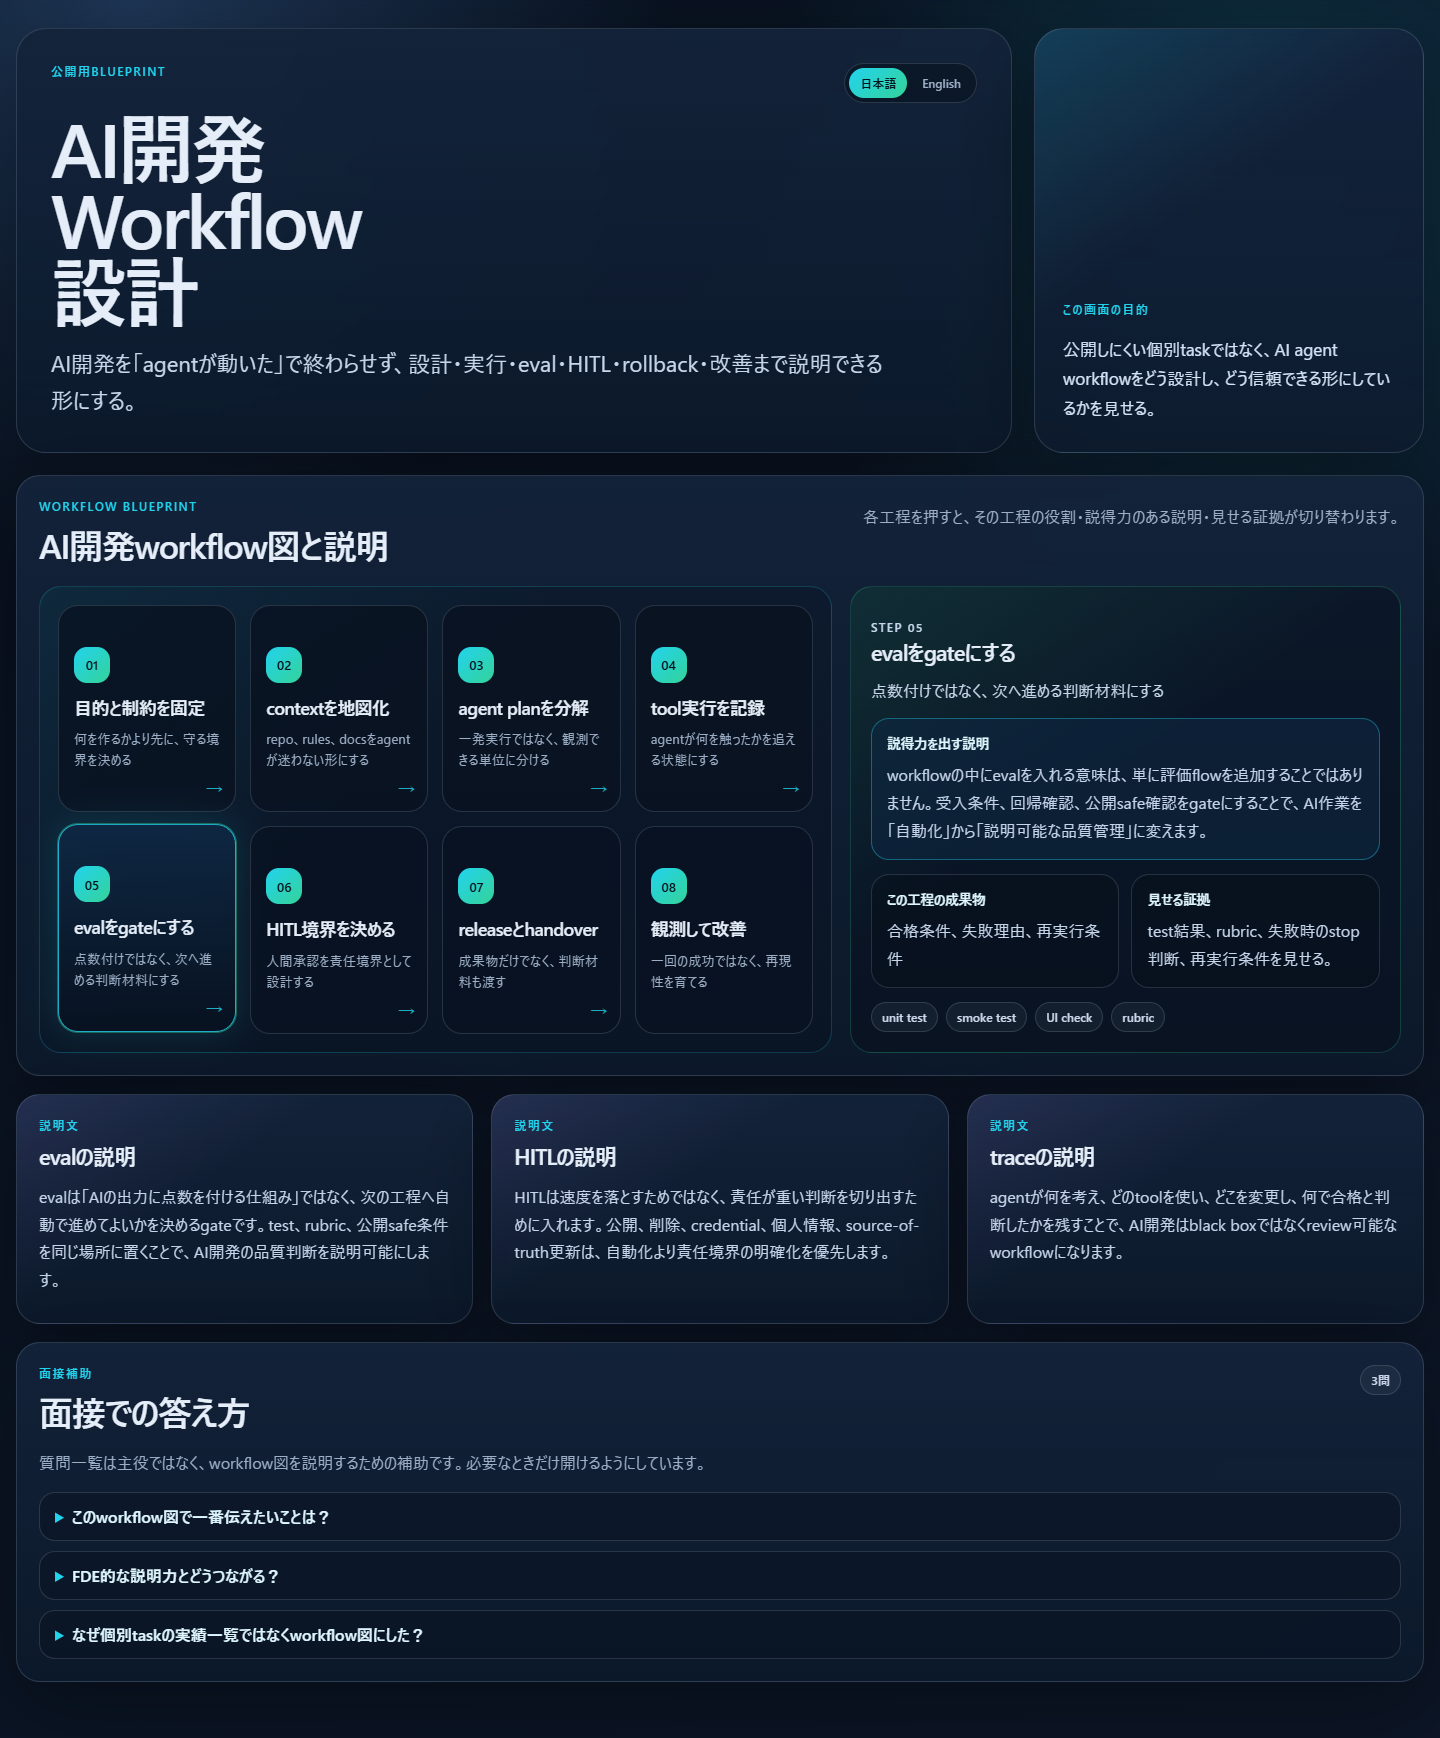
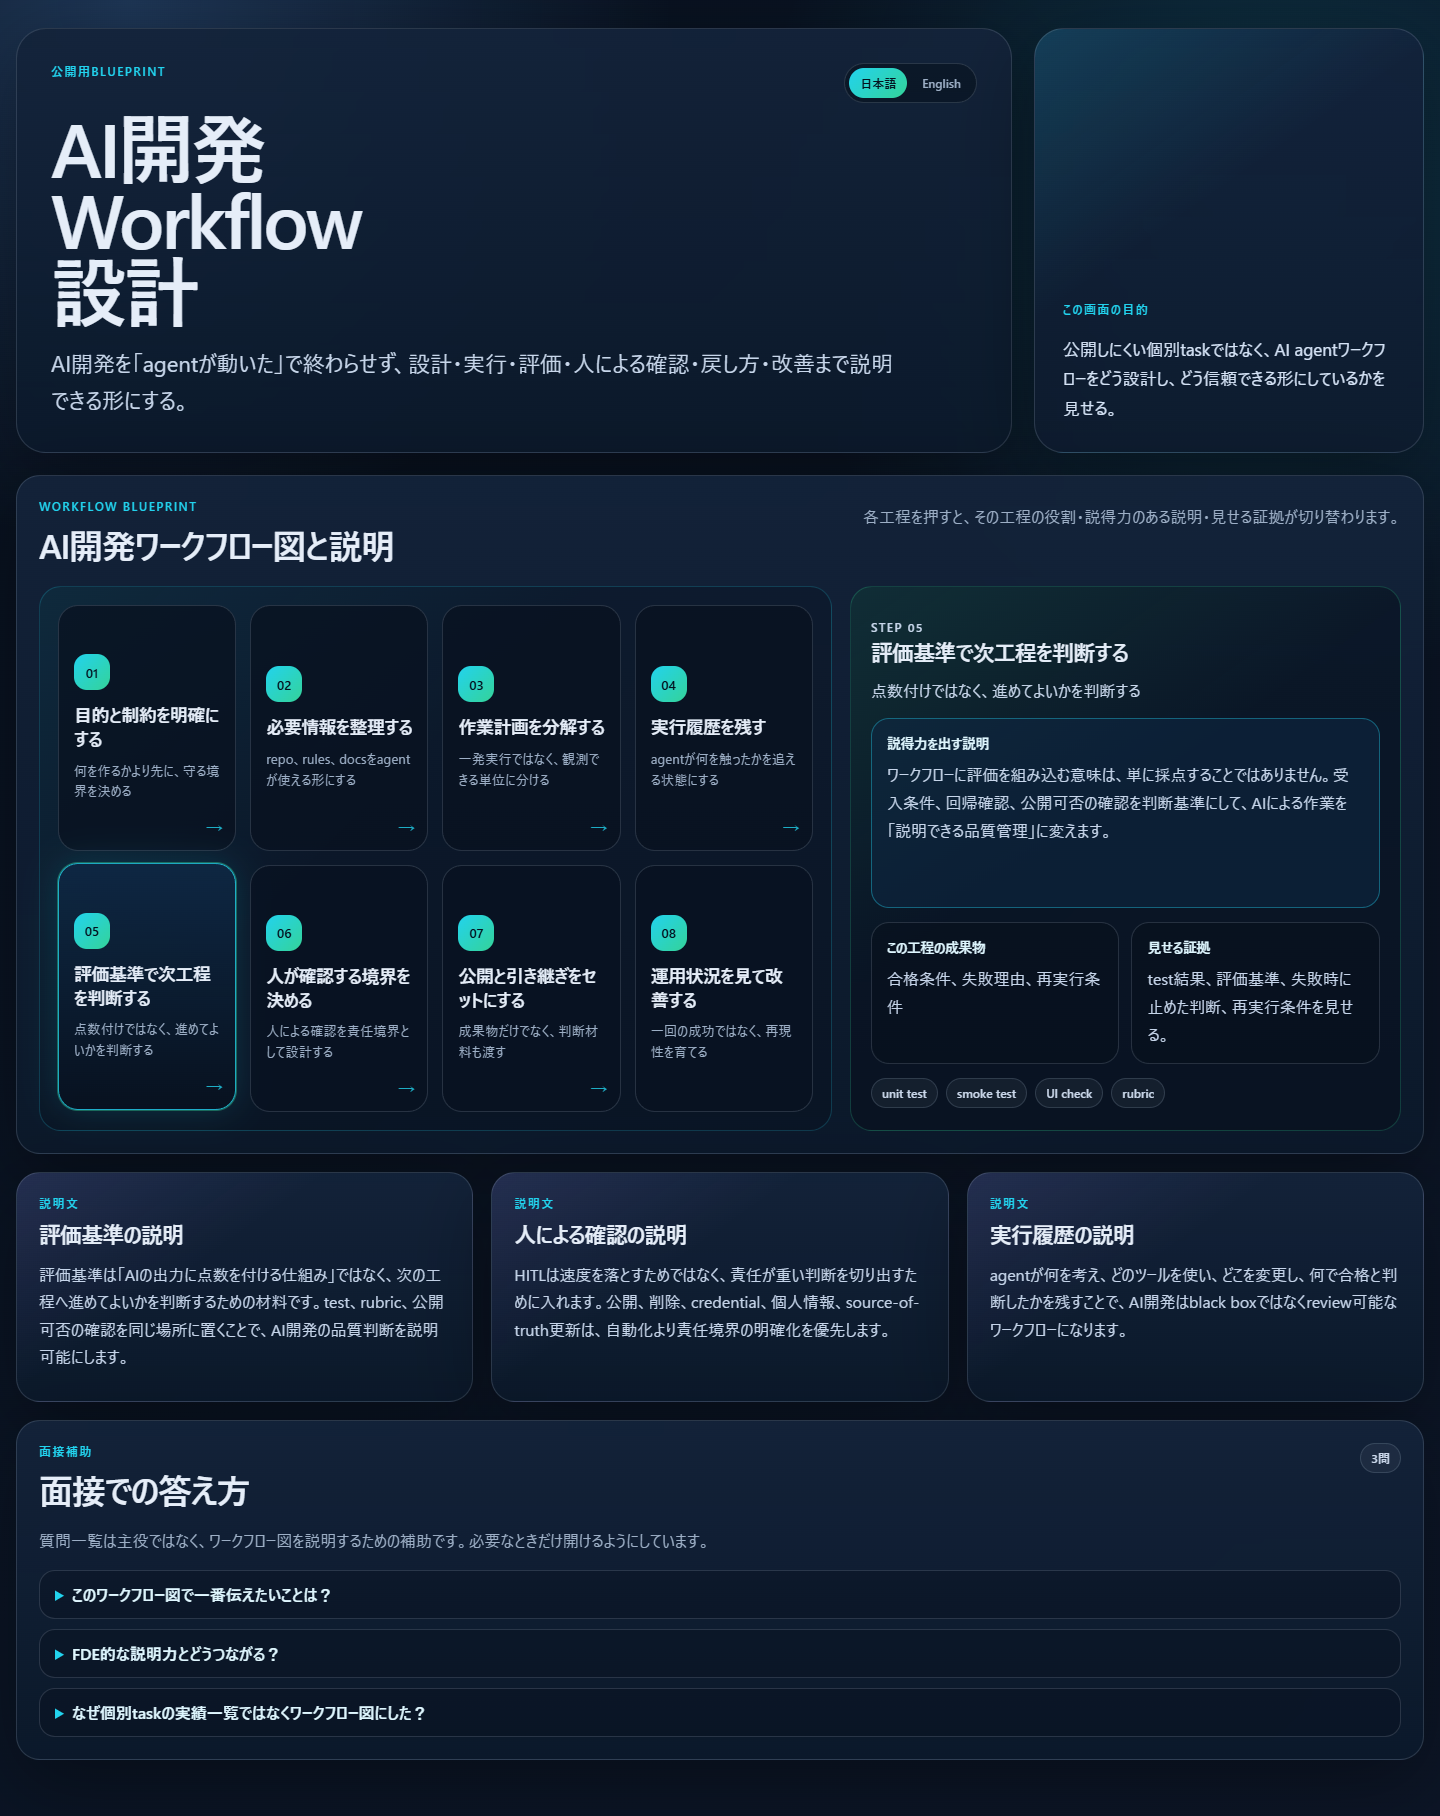
Stabilize workflow panel and improve Japanese copy

diff --git a/app.js b/app.js
@@ -23,19 +23,19 @@ const I18N = {
     hero: {
       eyebrow: "公開用Blueprint",
       titleHtml: "<span>AI開発</span><span>Workflow</span><span>設計</span>",
-      lead: "AI開発を「agentが動いた」で終わらせず、設計・実行・eval・HITL・rollback・改善まで説明できる形にする。",
+      lead: "AI開発を「agentが動いた」で終わらせず、設計・実行・評価・人による確認・戻し方・改善まで説明できる形にする。",
       languageAria: "言語選択",
       panelAria: "Dashboardの位置づけ",
       panelKicker: "この画面の目的",
-      panelBody: "公開しにくい個別taskではなく、AI agent workflowをどう設計し、どう信頼できる形にしているかを見せる。",
+      panelBody: "公開しにくい個別taskではなく、AI agentワークフローをどう設計し、どう信頼できる形にしているかを見せる。",
     },
     workflow: {
-      aria: "AI開発workflow図",
+      aria: "AI開発ワークフロー図",
       eyebrow: "Workflow Blueprint",
-      title: "AI開発workflow図と説明",
+      title: "AI開発ワークフロー図と説明",
       note: "各工程を押すと、その工程の役割・説得力のある説明・見せる証拠が切り替わります。",
       output: "この工程の成果物",
-      tools: "使うtool",
+      tools: "使うツール",
       why: "説得力を出す説明",
       proof: "見せる証拠",
       step: "Step",
@@ -43,12 +43,12 @@ const I18N = {
     proof: {
       aria: "説得力を支える説明",
       eyebrow: "説明文",
-      title: "workflow図の近くに置く説明文",
+      title: "ワークフロー図の近くに置く説明文",
     },
     qa: {
       eyebrow: "面接補助",
       title: "面接での答え方",
-      lead: "質問一覧は主役ではなく、workflow図を説明するための補助です。必要なときだけ開けるようにしています。",
+      lead: "質問一覧は主役ではなく、ワークフロー図を説明するための補助です。必要なときだけ開けるようにしています。",
       count: "{count}問",
     },
     error: {
@@ -284,3 +284,4 @@ async function init() {
 }
 
 init();
+

diff --git a/index.html b/index.html
@@ -22,16 +22,16 @@
       </div>
       <aside class="hero__panel" data-i18n-aria-label="hero.panelAria" aria-label="Dashboardの位置づけ">
         <span class="panel-kicker" data-i18n="hero.panelKicker">この画面の目的</span>
-        <p data-i18n="hero.panelBody">公開しにくい個別taskではなく、AI agent workflowをどう設計し、どう信頼できる形にしているかを見せる。</p>
+        <p data-i18n="hero.panelBody">公開しにくい個別taskではなく、AI agentワークフローをどう設計し、どう信頼できる形にしているかを見せる。</p>
       </aside>
     </header>
 
     <main>
-      <section class="card workflow-section" data-i18n-aria-label="workflow.aria" aria-label="AI開発workflow図">
+      <section class="card workflow-section" data-i18n-aria-label="workflow.aria" aria-label="AI開発ワークフロー図">
         <div class="section-heading section-heading--wide">
           <div>
             <p class="eyebrow" data-i18n="workflow.eyebrow">Workflow Blueprint</p>
-            <h2 data-i18n="workflow.title">AI開発workflow図と説明</h2>
+            <h2 data-i18n="workflow.title">AI開発ワークフロー図と説明</h2>
           </div>
           <p data-i18n="workflow.note">各工程を押すと、その工程の役割・説得力のある説明・見せる証拠が切り替わります。</p>
         </div>
@@ -52,7 +52,7 @@
           </div>
           <span class="count-badge" id="qaCount">0</span>
         </div>
-        <p class="qa-lead" data-i18n="qa.lead">質問一覧は主役ではなく、workflow図を説明するための補助です。必要なときだけ開けるようにしています。</p>
+        <p class="qa-lead" data-i18n="qa.lead">質問一覧は主役ではなく、ワークフロー図を説明するための補助です。必要なときだけ開けるようにしています。</p>
         <div class="qa-list" id="qaList"></div>
       </section>
     </main>
@@ -61,3 +61,4 @@
   <script src="app.js"></script>
 </body>
 </html>
+

diff --git a/styles.css b/styles.css
@@ -170,6 +170,7 @@ h4 { font-size: 14px; color: #dff7ff; }
   grid-template-columns: minmax(0, 1.18fr) minmax(360px, 0.82fr);
   gap: 18px;
   align-items: stretch;
+  min-height: 545px;
 }
 
 .workflow-map {
@@ -178,6 +179,7 @@ h4 { font-size: 14px; color: #dff7ff; }
   grid-template-columns: repeat(4, minmax(0, 1fr));
   gap: 14px;
   padding: 18px;
+  min-height: 545px;
   border: 1px solid rgba(34, 211, 238, 0.2);
   border-radius: 22px;
   background:
@@ -255,8 +257,10 @@ h4 { font-size: 14px; color: #dff7ff; }
 .step-detail {
   display: grid;
   align-content: start;
+  grid-template-rows: auto minmax(190px, auto) auto auto;
   gap: 14px;
   min-width: 0;
+  min-height: 545px;
   border: 1px solid rgba(52, 211, 153, 0.22);
   border-radius: 22px;
   padding: 20px;
@@ -281,6 +285,7 @@ h4 { font-size: 14px; color: #dff7ff; }
 .explain-block--primary {
   border-color: rgba(34, 211, 238, 0.38);
   background: rgba(14, 40, 68, 0.52);
+  min-height: 190px;
 }
 
 .explain-block p {
@@ -293,6 +298,10 @@ h4 { font-size: 14px; color: #dff7ff; }
   display: grid;
   grid-template-columns: 1fr 1fr;
   gap: 12px;
+}
+
+.detail-grid .explain-block {
+  min-height: 142px;
 }
 
 .tool-row {
@@ -385,6 +394,11 @@ details p {
   .language-switch { align-self: flex-start; }
   h1 { font-size: 40px; }
   .workflow-map, .detail-grid { grid-template-columns: 1fr; }
+  .workflow-layout, .workflow-map, .step-detail { min-height: auto; }
+  .step-detail {
+    min-height: 800px;
+    grid-template-rows: auto minmax(230px, auto) auto auto;
+  }
   .flow-node { min-height: 130px; }
   .section-heading { display: grid; }
   .section-heading--wide p:last-child { max-width: none; }
